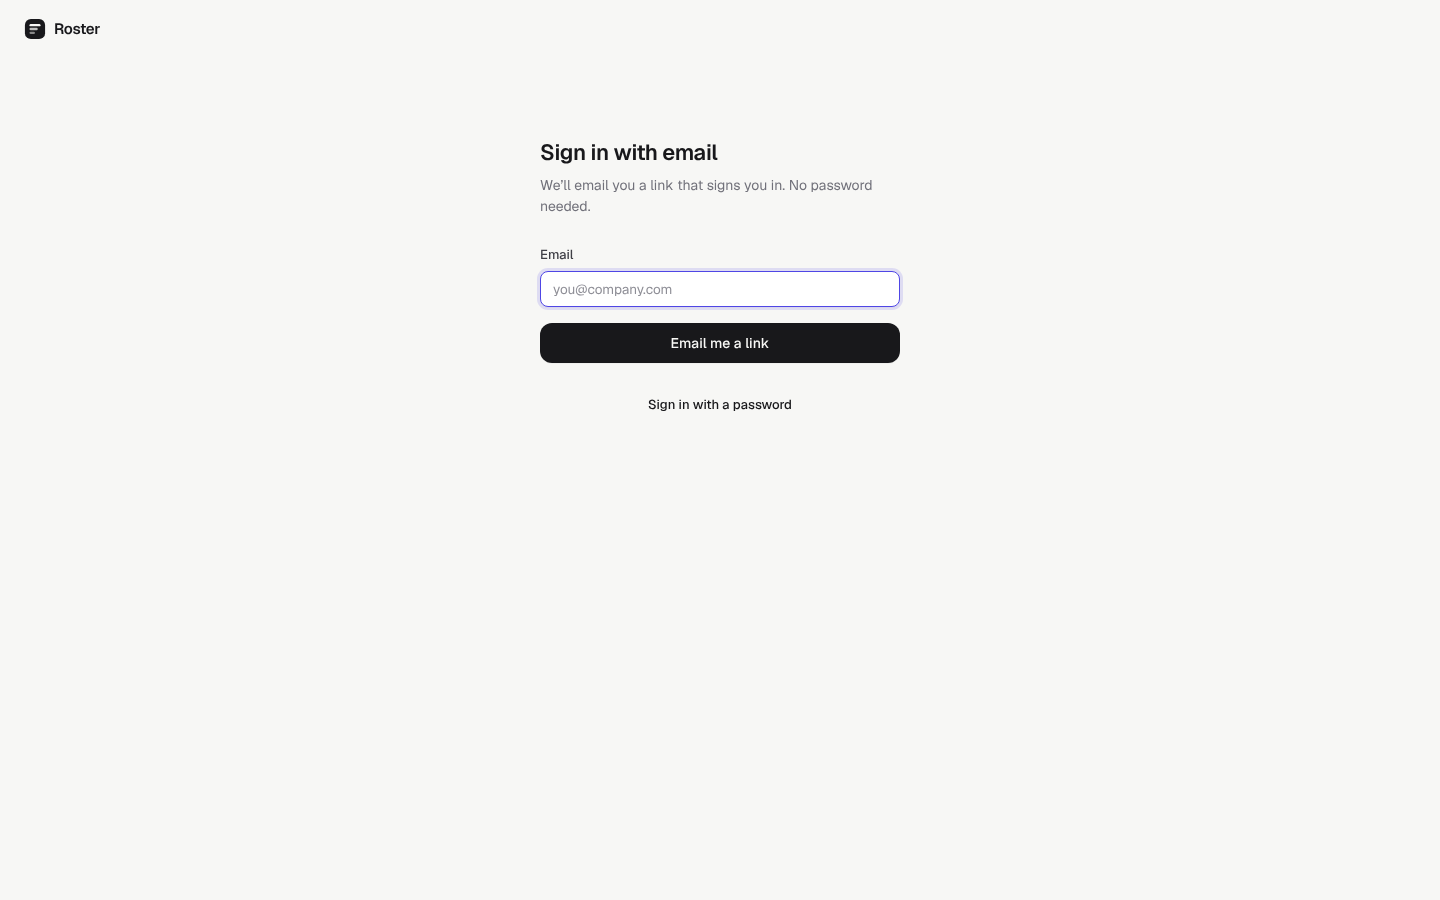
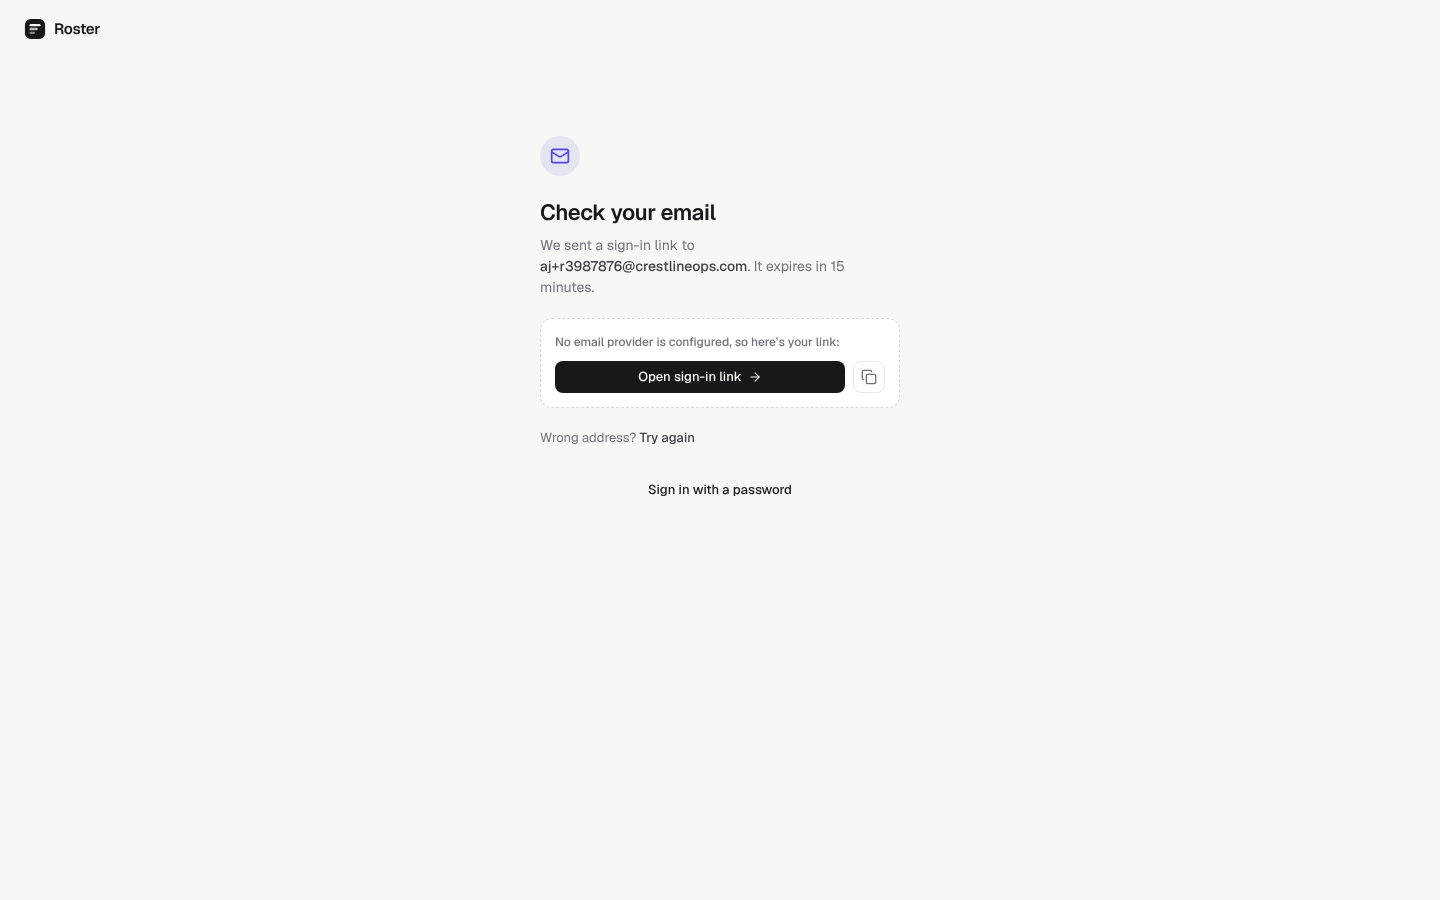
Raise light-mode text contrast; workbench round 3
Claude-Session: https://claude.ai/code/session_01R829g3cx373VGQG4xJfwq5

Changed region(s): [[0.375, 0.1556, 0.625, 0.4978], [0.4375, 0.5289, 0.5625, 0.56]]

diff --git a/src/app/globals.css b/src/app/globals.css
@@ -69,8 +69,8 @@
   --line-strong: #d9d9d4;
   --ink: #18181b;
   --ink-2: #3f3f46;
-  --ink-3: #71717a;
-  --ink-4: #8e8e96;
+  --ink-3: #63636b;
+  --ink-4: #76767e;
   --accent: #4f46e5;
   /* Accent for text on canvas/surface; tenants with light brand colors override this darker. */
   --accent-text: color-mix(in oklab, var(--accent) 82%, black);

diff --git a/.workbench/critique/design-r3.md b/.workbench/critique/design-r3.md
@@ -1,0 +1,63 @@
+# Design critique, round 3
+
+Evidence: `.workbench/screens/critic-r3/NN-*.png`: 76 screenshots plus every flow. Test keys revoked and test agent archived afterwards.
+
+**Studio: 7/10.** Calm, consistent and the hero states are good. One mobile layout breaks badly, and the Architect's output has copy bugs.
+**Portal: 7.5/10.** Today, review with Undo, and request changes are at the bar. The tenant red is used for UI state, and Connect is written for developers.
+
+**Gap per screen.** Home: mobile titles. Client: header. Knowledge: URL field. Billing: mobile margin. Connect: Twilio. Resell: leak. Today and deliverable: none.
+
+## Critical
+**C1. The client header breaks on mobile (01).** The name shows as "Bran", the buttons cover it, and the meta line wraps one word per line, 20 lines in all. *Fix* `clients/[clientSlug]/page.tsx:43`: add `basis-64` to the middle div. Give the actions div `max-sm:w-full`.
+
+## High
+**H1. The tenant red signals state (04, 05, 06).** Toggles, the selected radio card, focus rings and links are red, so they read as errors. *Fix* `portal.css`: keep `--accent` for the brand mark, the primary CTA, the active tab and the dot. For controls:
+- Checked switch: `--ink`
+- Selected card: `border-ink bg-surface-2`
+- Focus ring: ink at 30%
+- Links: ink with an underline
+
+**H2. Connect (02).** The copy icon covers the command ("Authori▢atic"). Dana is told to set up Twilio webhooks.
+- `connect-keys.tsx:121`: put `CopyButton` beside the `pre` (`min-w-0 flex-1`), not on top of it.
+- `sms-connect.tsx:153`: on the portal, show "Ask {agency} to give Maya a number". Keep the Twilio form in Studio only.
+
+**H3. White-label leaks (03).** "Stripe isn't connected to Roster yet" (`connect-stripe-card.tsx:22`, `checkout-links-card.tsx:33`). The MCP server is named `roster` (`mcp-config.ts:23`). Drop "Roster" from the copy and name the server after the org slug.
+
+**H4. The hero output (07, 08).** The new Coastal agent was named "Quinn", but Coastal already has a Quinn, so the inbox is `quinn-9c79@`.
+- `architect.ts:1026`: skip names already used in the agency. "Lena" is in the name list and is a demo user.
+- `:897`: "The the weekly…".
+- `:1071`: the offline disclaimer is question #1, so it ends up in "Copy as email to client". Make it a proposal-only notice.
+
+**H5. Mobile hides data.** Home titles cut off at "Draft: weekly st…" (09): in `a/[agency]/page.tsx:90`, use `line-clamp-2` and stack time and hours under `max-sm`. Billing scrolls Margin off-screen with no hint (10): in `billing/page.tsx:98`, use stacked rows with the margin % on the right.
+
+## Medium
+- **M1. Stale attention (12).** "Asked for changes · 3 hours ago" is a note sent a minute earlier, and it stays after the revision lands. Use the feedback's timestamp and clear the item on revision.
+- **M2. Knowledge (11).** The URL field is 105px (`knowledge-form.tsx:47` `[1fr_200px]`). Stack the fields. A source is titled "Discovery call: Discovery call…".
+- **M3. Left edges.** Titles start at x=340, 440 on Settings and 480 on New agent. On agent Settings, the Channels card is 640px and the form 720px (13).
+- **M4. Repeated confirmations.** Ask, upload and the approve hold each confirm two or three times (14, 20). Keep one.
+- **M5. Client detail (19).** "Billing · Active" sits next to "Stripe isn't connected". "Cancel subscription" is red at rest: move it into "…".
+- **M6. Mobile polish.** Landing workflow rows wrap to 3 lines (15). Keyboard hints in the drawer.
+- **M7. Contrast.** `--ink-4` is 3.0:1 on the canvas and still appears 42 times.
+
+## Fixed since r1
+- The agent page after hire shows the first deliverable queued and a "Before tonight" list
+- Compose button works
+- ⌘K ranks results correctly
+- Changing the plan needs a confirm
+- Mobile shows attention first
+- Flat avatars
+- One channel menu in the review
+- Margin shown as %
+- Review & send has a 5s Undo
+- No hard-coded names
+- Portal left edge is consistent
+- "New" uses ink with a dot
+- Reading view fixed
+- "Looks good" shows on work that doesn't need review
+
+## Still open
+- The reading header says "Finishing" at step 2 of 5, and the quote has no closing ”
+- Tenant accent drives UI state
+- No mask on the agent tabs
+- `ink-4` contrast
+- The snippet no longer wraps mid-word, but the copy icon now covers it

diff --git a/.workbench/WORKBENCH.md b/.workbench/WORKBENCH.md
@@ -21,3 +21,4 @@ that judge the *running product* (screenshots, HTTP, tests), never builder summa
 | 2a | 05:40 | Lead integration check (isolated copy): `next build` ✓ (52 routes + proxy); vitest 220/221 (1 approvals-audit test broken by in-flight Architect edit). Engine, Studio, Portal round-2 fixes landed. | — |
 | 2 | 05:20 | Fix round 2 dispatched to 6 builders: engine (runtime safety, resale, notifications), Architect (grounded extraction, typed deliverables), channels (uploads, SMS/Slack enablement, MCP), studio + portal (design fixes), NEW billing builder (Stripe Connect flat-rate). | pending |
 | 2b | 05:45 | Billing (Stripe Connect, flat-rate checkout, portal, webhooks; 25 tests) done. Security critic r2 (server actions, invites, resale, proxy; re-verify). | Foreign-id + role checks across all actions OK; no agency-only data in portal; ReDoS/MCP batch/stranger-email fixed. New: forged Authentication-Results trusted (H), account pre-registration + invite takeover chain (H), open redirect, member→owner invites, custom-domain host serves Studio, SQL in errors. Dispatched to channels, studio, portal, engine. |
+| 3a | 06:00 | Design critic r3 (both surfaces, blind vs Linear/Vercel/Stripe). | Studio 7/10, Portal 7.5/10. Today/approve-undo/request-changes at bar. Open: client header collapses on mobile, tenant red on controls, Connect too technical, 'Roster' leaks to client portal, Architect name collisions/copy bugs, mobile truncation, alignment drift. Dispatched. |
